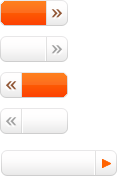
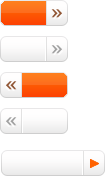
Widget

diff --git a/widget/style/product-widget-style.css b/widget/style/product-widget-style.css
@@ -119,12 +119,11 @@
     display: inline-block;
     background: url("../img/arrowSide.png") no-repeat 0 -150px;
     text-decoration: none;
-    width: 110px;
+    width: 97px;
     height: 26px;
     padding-left: 8px;
     text-align: left;
     line-height: 26px;
     color: #FF6200;
     font-size: 14px;
-
 }
